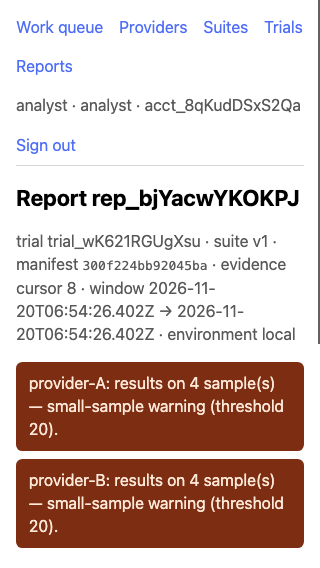
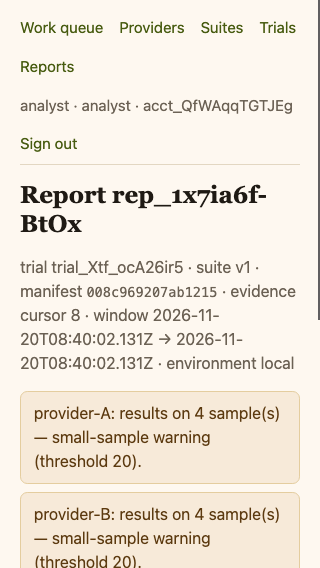
Warm-paper design pass on console: olive actions, state-colored badges, error vs notice split

diff --git a/src/ui/pages.ts b/src/ui/pages.ts
@@ -16,26 +16,61 @@ const esc = (s: unknown): string =>
     ({ "&": "&amp;", "<": "&lt;", ">": "&gt;", '"': "&quot;", "'": "&#39;" })[c]!);
 
 const CSS = `
-:root{color-scheme:light dark}
-body{font-family:ui-sans-serif,system-ui,sans-serif;max-width:64rem;margin:0 auto;padding:1rem;line-height:1.45}
-nav{display:flex;gap:1rem;flex-wrap:wrap;border-bottom:1px solid #8885;padding-bottom:.5rem;margin-bottom:1rem}
-nav a{color:#4f6ef7;text-decoration:none}
-.table-wrap{overflow-x:auto}
-table{border-collapse:collapse;width:100%;margin:.75rem 0}
-th,td{border:1px solid #8885;padding:.35rem .6rem;text-align:left;font-size:.9rem;vertical-align:top;overflow-wrap:break-word}
-th{background:#8882;white-space:nowrap}
+:root{
+  color-scheme:light dark;
+  --paper:#FEF8F0;--ink:#1F1A14;--card:#FFFDF9;--line:#E3D7C2;
+  --action:#485C11;--action-ink:#FFF;--action-hover:#3A4B0D;
+  --muted:#6B6154;
+  --warn-bg:#F7EAD9;--warn-ink:#5C3A10;--warn-bd:#E4CD9F;
+  --error-bg:#FBE7DE;--error-ink:#A23A1A;--error-bd:#E7B7A3;
+  --good-bg:#EDF3DC;--good-ink:#3E4F0E;--good-bd:#C9D6A4;
+  --sel:#DCE6BC;
+}
+@media (prefers-color-scheme:dark){
+  :root{
+    --paper:#211B14;--ink:#F2ECDF;--card:#2B241B;--line:#4B4133;
+    --muted:#B4A78F;
+    --warn-bg:#443413;--warn-ink:#F0D6A0;--warn-bd:#6B5526;
+    --error-bg:#4A2013;--error-ink:#F0A98C;--error-bd:#7A4430;
+    --good-bg:#2E3A12;--good-ink:#CFE09C;--good-bd:#54651F;
+    --sel:#55630F;
+  }
+}
+body{font-family:"DM Sans",ui-sans-serif,system-ui,sans-serif;background:var(--paper);color:var(--ink);max-width:64rem;margin:0 auto;padding:1rem 1.25rem 3rem;line-height:1.5}
+::selection{background:var(--sel)}
+a{color:var(--action);text-underline-offset:2px}
+nav{display:flex;gap:1rem;flex-wrap:wrap;border-bottom:1px solid var(--line);padding-bottom:.55rem;margin-bottom:1rem;font-size:.95rem}
+nav a{color:var(--action);text-decoration:none}
+nav a:hover{text-decoration:underline}
+h1,h2,h3{font-family:"Crimson Text",Georgia,"Times New Roman",serif;font-weight:600;line-height:1.2}
+h1{font-size:1.5rem;margin:.3rem 0 .7rem}
+h2{font-size:1.2rem;margin-top:1.5rem}
+h3{font-size:1.05rem}
 code{overflow-wrap:anywhere}
-.badge{display:inline-block;padding:.1rem .45rem;border-radius:.6rem;font-size:.75rem;border:1px solid #8886;white-space:nowrap}
-.warn{background:#7c2d12;color:#fde8d8;padding:.6rem .8rem;border-radius:.4rem;margin:.5rem 0}
-.muted{color:light-dark(#595959,#a8a8a8)}
+code,pre{font-family:ui-monospace,"SF Mono",Menlo,monospace;font-size:.85em}
+pre{background:var(--card);border:1px solid var(--line);border-radius:.4rem;padding:.55rem .7rem;overflow-x:auto}
+.table-wrap{overflow-x:auto;background:var(--card);border:1px solid var(--line);border-radius:.5rem;margin:.75rem 0}
+table{border-collapse:collapse;width:100%;min-width:40rem;font-variant-numeric:tabular-nums}
+th,td{padding:.45rem .65rem;text-align:left;font-size:.9rem;vertical-align:top;overflow-wrap:break-word;border-bottom:1px solid var(--line)}
+tr:last-child td{border-bottom:0}
+th{background:color-mix(in srgb,var(--line) 40%,var(--card));color:var(--muted);font-size:.78rem;text-transform:uppercase;letter-spacing:.04em}
+.badge{display:inline-block;padding:.08rem .5rem;border-radius:1rem;font-size:.75rem;border:1px solid var(--line);white-space:nowrap;background:var(--card)}
+.badge.good{background:var(--good-bg);color:var(--good-ink);border-color:var(--good-bd)}
+.badge.bad{background:var(--error-bg);color:var(--error-ink);border-color:var(--error-bd)}
+.badge.warn{background:var(--warn-bg);color:var(--warn-ink);border-color:var(--warn-bd)}
+.warn,.error{padding:.6rem .8rem;border:1px solid;border-radius:.45rem;margin:.5rem 0}
+.warn{background:var(--warn-bg);color:var(--warn-ink);border-color:var(--warn-bd)}
+.error{background:var(--error-bg);color:var(--error-ink);border-color:var(--error-bd)}
+.muted{color:var(--muted)}
 form.inline{display:inline}
-fieldset{border:1px solid #8885;border-radius:.4rem;margin:.6rem 0}
+fieldset{border:1px solid var(--line);border-radius:.45rem;margin:.6rem 0;background:var(--card);padding:.5rem .8rem}
+legend{font-size:.8rem;color:var(--muted);padding:0 .3rem}
 label{display:block;margin:.3rem 0;font-size:.85rem}
-label>:is(input:not([type="checkbox"]),select,textarea){display:block;margin:.15rem 0 .2rem;max-width:34rem;width:100%}
-input,select,textarea{font:inherit;max-width:100%;padding:.3rem .45rem}
-button{font:inherit;cursor:pointer;padding:.35rem .7rem}
-:focus-visible{outline:2px solid #4f6ef7;outline-offset:2px}
-h1{font-size:1.4rem}h2{font-size:1.1rem;margin-top:1.4rem}
+label>:is(input:not([type="checkbox"]),select,textarea){display:block;margin:.15rem 0 .25rem;max-width:34rem;width:100%}
+input,select,textarea{font:inherit;max-width:100%;padding:.3rem .45rem;border:1px solid var(--line);border-radius:.35rem;background:var(--card);color:var(--ink)}
+button{font:inherit;font-weight:600;cursor:pointer;padding:.4rem .8rem;border-radius:.4rem;border:1px solid var(--action);background:var(--action);color:var(--action-ink)}
+button:hover{background:var(--action-hover);border-color:var(--action-hover)}
+:focus-visible{outline:2px solid var(--action);outline-offset:2px}
 small{display:block}
 `;
 
@@ -70,9 +105,17 @@ function td(...cells: unknown[]): string {
   return `<tr>${cells.map((c) => `<td>${c}</td>`).join("")}</tr>`;
 }
 const fmtCost = (v: number | null, reason: string | null): string =>
-  v === null ? `<span class="muted">unknown${reason ? ` — ${esc(reason)}` : ""}</span>` : `${v}¢`;
-const badge = (s: string): string => `<span class="badge">${esc(s)}</span>`;
+  v === null ? `<span class="muted">unknown${reason ? ` — ${esc(reason)}` : ""}</span>` : `<strong>${v}¢</strong>`;
+const badge = (s: string): string => {
+  const k = s.toLowerCase();
+  const cls = /bound|valid|complete|succeeded|frozen|accepted|verified/.test(k) ? " good"
+    : /expired|revoked|fail|blocked|denied|error/.test(k) ? " bad"
+    : /running|dispatched|uncertain|partial|reserved|pending/.test(k) ? " warn"
+    : "";
+  return `<span class="badge${cls}">${esc(s)}</span>`;
+};
 const warnP = (html: string): string => `<p class="warn" role="status">${html}</p>`;
+const errP = (html: string): string => `<p class="error" role="alert">${html}</p>`;
 const tbl = (head: string, rows: string[]): string =>
   rows.length
     ? `<div class="table-wrap"><table>${head}${rows.join("")}</table></div>`
@@ -112,7 +155,7 @@ export function mountConsole(ctx: Ctx, r: Router): void {
     const { account_id, subject, credential, demo_member } = req.body ?? {};
     const failed = (msg: string) => ({
       status: 403,
-      html: page("Sign in", null, `${warnP(msg)}<p><a href="/console/login">Back</a></p>`),
+      html: page("Sign in", null, `${errP(msg)}<p><a href="/console/login">Back</a></p>`),
     });
     let member: { account_id: string; subject: string; role: Actor["role"] } | undefined;
     if (demo_member) {

diff --git a/src/lib/router.ts b/src/lib/router.ts
@@ -156,9 +156,13 @@ function sendError(res: http.ServerResponse, e: unknown, consolePage = false): v
       status: err.status,
       html: `<!doctype html><html lang="en"><head><meta charset="utf-8">
 <meta name="viewport" content="width=device-width,initial-scale=1"><title>Error ${err.status}</title>
-<style>body{font-family:ui-sans-serif,system-ui,sans-serif;max-width:40rem;margin:2rem auto;padding:0 1rem;line-height:1.45}
-.warn{background:#7c2d12;color:#fde8d8;padding:.6rem .8rem;border-radius:.4rem}</style></head>
-<body><main><h1>${err.status} ${h(err.code)}</h1><p class="warn" role="status">${h(err.message)}</p>
+<style>body{font-family:"DM Sans",ui-sans-serif,system-ui,sans-serif;background:#FEF8F0;color:#1F1A14;max-width:40rem;margin:2rem auto;padding:0 1rem;line-height:1.5}
+h1{font-family:"Crimson Text",Georgia,serif;font-weight:600}
+.error{background:#FBE7DE;color:#A23A1A;border:1px solid #E7B7A3;padding:.6rem .8rem;border-radius:.45rem}
+a{color:#485C11;text-underline-offset:2px}
+@media (prefers-color-scheme:dark){body{background:#211B14;color:#F2ECDF}
+.error{background:#4A2013;color:#F0A98C;border-color:#7A4430}a{color:#7C9A3D}}</style></head>
+<body><main><h1>${err.status} ${h(err.code)}</h1><p class="error" role="alert">${h(err.message)}</p>
 <p><a href="/console">Back to the console</a></p></main></body></html>`,
     });
     return;
